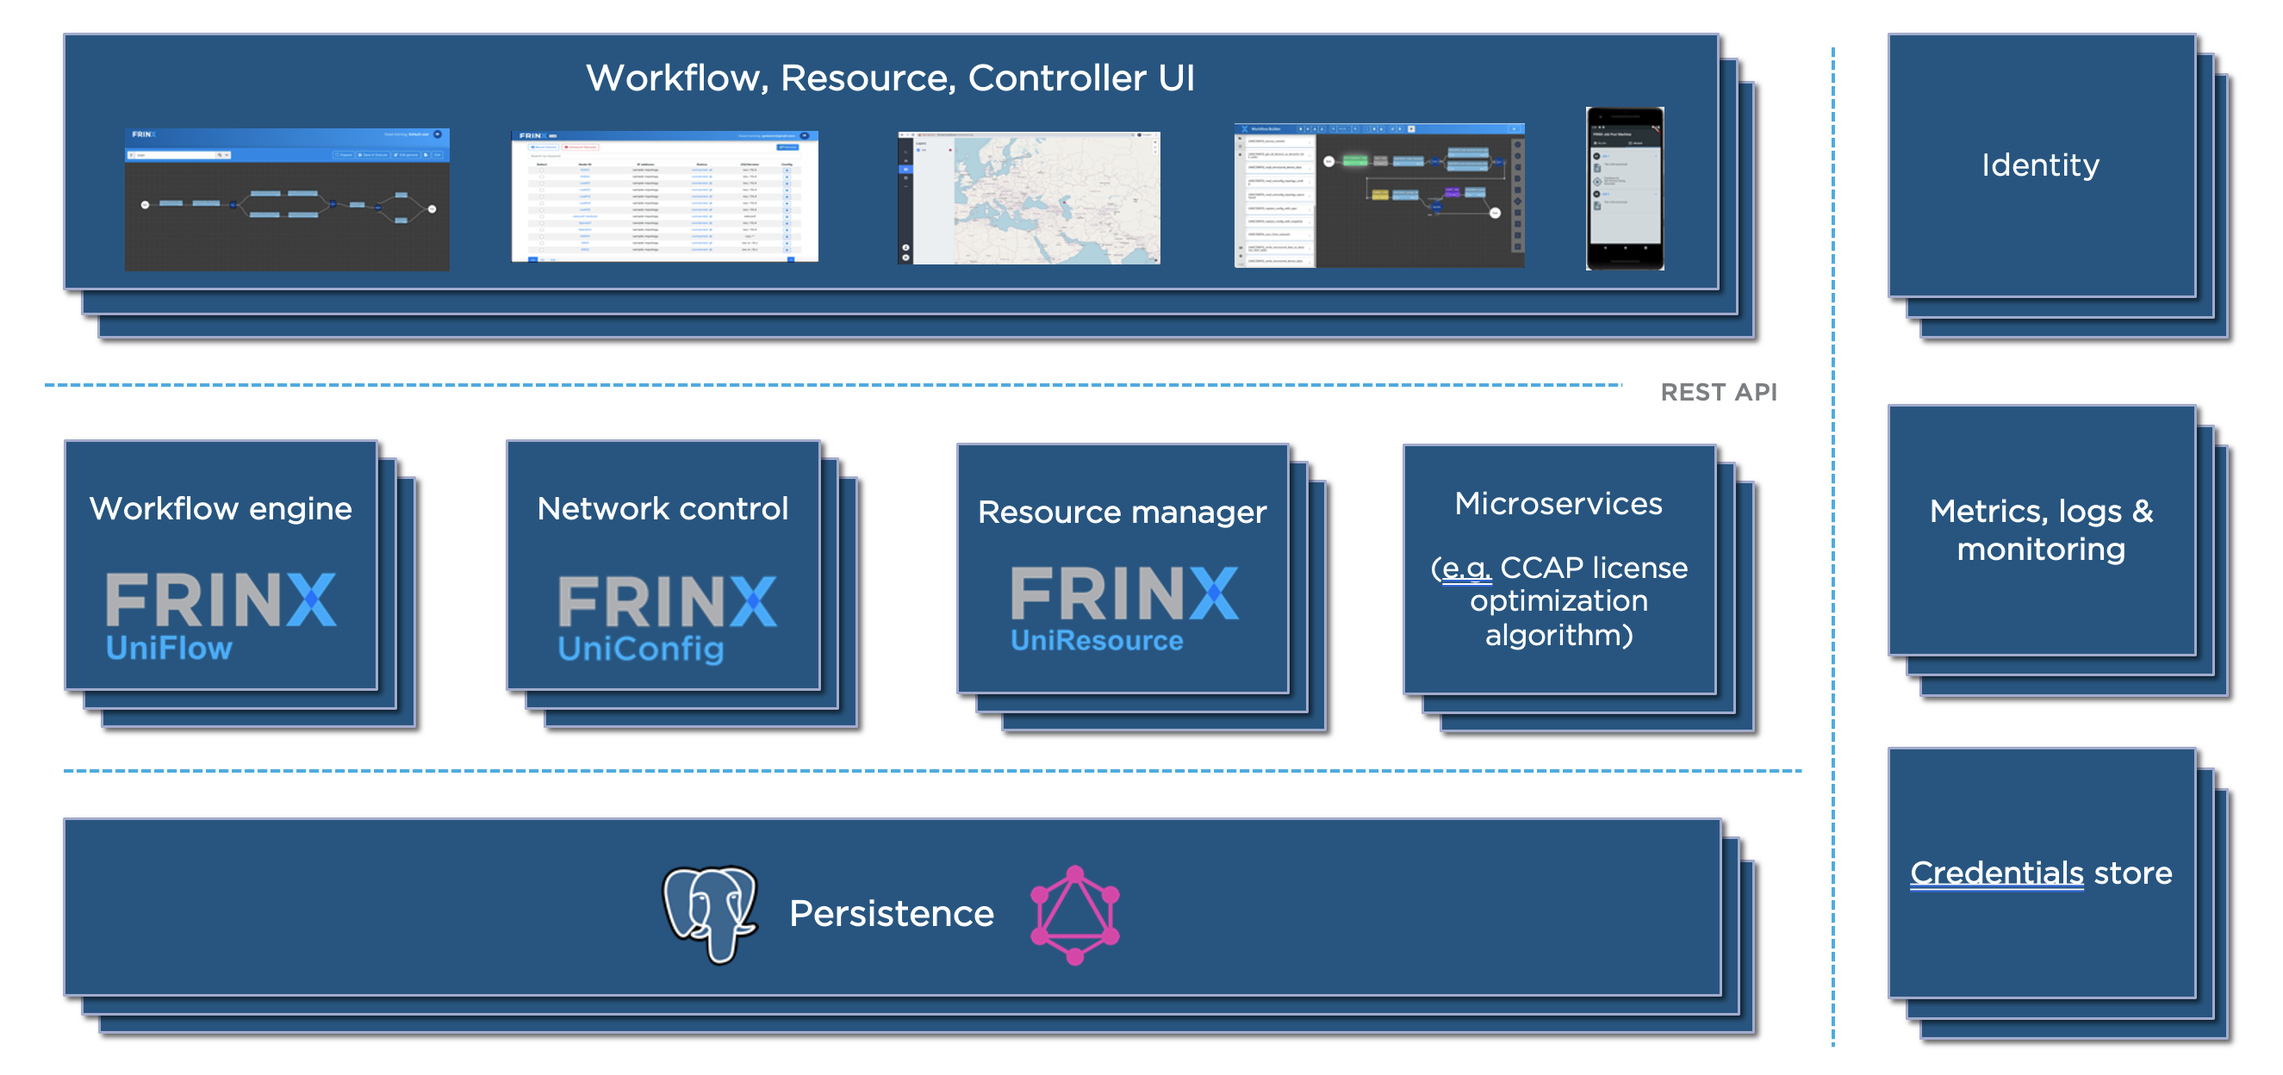
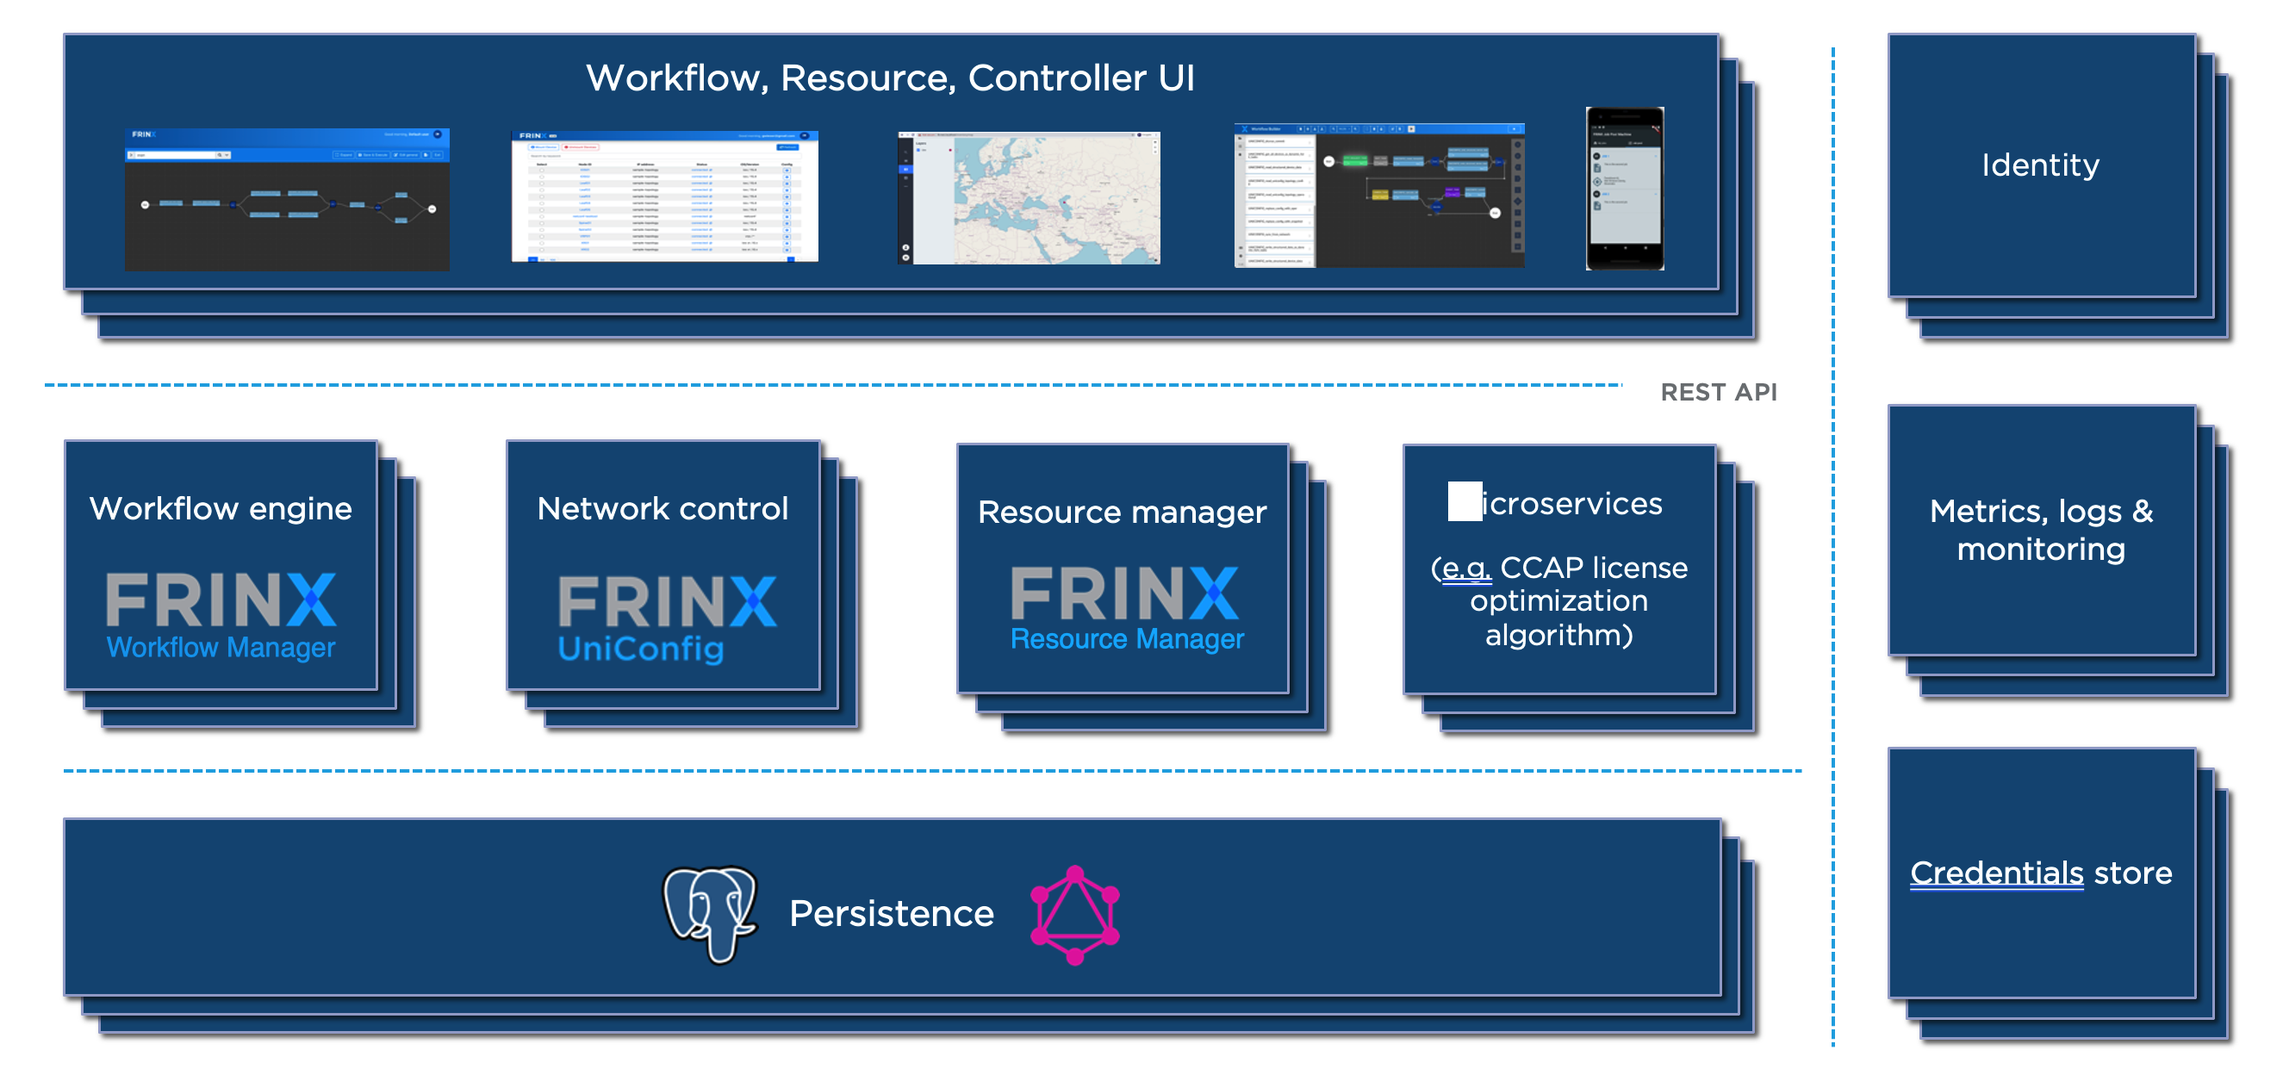
Naming changes
Introducing Workflow Manager and Resource Manager

diff --git a/frinx-uniresource/introduction/readme.md b/frinx-uniresource/introduction/readme.md
@@ -2,22 +2,22 @@
 order: 5
 ---
 
-# FRINX UniResource introduction
+# FRINX Resource Manager introduction
 
-FRINX UniResource was developed for network operators and infrastructure
+FRINX Resource Manager was developed for network operators and infrastructure
 engineers to manage their physical and logical assets and resources.
 Examples for assets are locations, equipment, ports and services.
 Examples for resources are IP addresses, VLAN IDs and other consumables
-required for operating data services. UniResource was developed
+required for operating data services. Resource Manager was developed
 specifically to address the needs of network and infrastructure
-engineers working with communication networks. FRINX UniResource
+engineers working with communication networks. FRINX Resource Manager
 provides GUI and a GraphQL based API to create, read, update and delete
-assets. UniResource can be deployed standalone or as part of FRINX
+assets. Resource Manager can be deployed standalone or as part of FRINX
 Machine.
 
 ## Features
 
-Following list contains features inherent to UniResouce.
+Following list contains features inherent to Resource Manager.
 
 ### Resource type management
 
@@ -46,7 +46,7 @@ Example resource types:
         - Name: Longitude
         - Type: float
 
-UniResouce is flexible enough to enable user defined resource types
+Resource Manager is flexible enough to enable user defined resource types
 without requiring code compilation or any other non-runtime task. With
 regard to resource types, this requires keeping the schema flexible
 enough so that users can define their own types and properties and thus
@@ -75,12 +75,12 @@ Example resources based on resource types from previous section:
         - Name: Longitude
         - Value: 0.0
 
-![Resource types](UniResource_resource_types.png)
+![Resource types](Resource_Manager_resource_types.png)
 
 ### Flexible design
 
-One of the main non-functional goals of the UniResouce is flexibility.
-We are designing UniResouce to support an array of use cases without the
+One of the main non-functional goals of the Resource Manager is flexibility.
+We are designing Resource Manager to support an array of use cases without the
 need for modifications. To achieve flexibility we are allowing:
 
 - Custom resource type definition without changes in the DB schema
@@ -90,15 +90,15 @@ need for modifications. To achieve flexibility we are allowing:
 
 ### Multitenancy and RBAC
 
-Multitenancy and Role Based Access Control is supported by UniResource.
+Multitenancy and Role Based Access Control is supported by Resource Manager.
 
 A simple RBAC model is implemented where only super-users (based on
 their role and user groups) can manipulate resource types, resource
 pools and labels. Regular users will only be able to read the above
 entities, allocate and free resources.
 
-UniResource does not manage list tenants/users/roles/groups and relies
-on external ID provider. Following headers are expected by UniResource
+Resource Manager does not manage list tenants/users/roles/groups and relies
+on external ID provider. Following headers are expected by Resource Manager
 graphQL server:
 
 ```
@@ -108,6 +108,6 @@ graphQL server:
     x-auth-user-groups: list of groups associated with current user.
 ```
 
-UniResource does not store any information about users or tenants in the
+Resource Manager does not store any information about users or tenants in the
 database, **except the name or ID of a tenant provided in `x-tenant-id`
 header**.

diff --git a/frinx-uniresource/developer-guide/readme.md b/frinx-uniresource/developer-guide/readme.md
@@ -7,11 +7,11 @@ order: 1
 ## Dependency on symphony
 
 !!!warning
-UniResource currently depends on a project called symphony.
+Resource Manager currently depends on a project called symphony.
 !!!
 
 This project is not publicly accessible and without access to it,
-UniResource cannot be built. In that case, use pre built docker images
+Resource Manager cannot be built. In that case, use pre built docker images
 from dockerhub.
 
 ## Folder structure
@@ -35,21 +35,21 @@ from dockerhub.
 - [api-tests](https://github.com/FRINXio/resource-manager/tree/master/api-tests)
     - integration tests
 - [pkg](https://github.com/FRINXio/resource-manager/tree/master/pkg) -
-    helm chart for UniResource
+    helm chart for Resource Manager
 
 ## Build
 
-It is advised to build UniResource as a docker image using
+It is advised to build Resource Manager as a docker image using
 [Dockerfile](https://github.com/FRINXio/resource-manager/blob/master/Dockerfile)
 and run it as a docker container.
 
-The reason is that UniResource uses wasmer and pre built js and python
+The reason is that Resource Manager uses wasmer and pre built js and python
 engines for wasm. These are not part of the codebase and thus simply
-running UniResource would fail, unless you provide these resources e.g.
-by copying them out of UniResource built docker image.
+running Resource Manager would fail, unless you provide these resources e.g.
+by copying them out of Resource Manager built docker image.
 
 !!!warning
-UniResource utilizes wire to generate wiring code between major
+Resource Manager utilizes wire to generate wiring code between major
 !!!
 
 components. Regenerating wiring is not part of standard build process !
@@ -61,13 +61,13 @@ After modifying any of the **wire.go** files perform:
 
 ## GraphQL schema
 
-UniResource exposes graphQL API and this is the
+Resource Manager exposes graphQL API and this is the
 [schema](https://github.com/FRINXio/resource-manager/blob/master/graph/graphql/schema/schema.graphql).
 
 ## Built in strategies
 
-UniResource provides a number of built in strategies for built in
-resource types and are loaded into UniResource at startup.
+Resource Manager provides a number of built in strategies for built in
+resource types and are loaded into Resource Manager at startup.
 
 [Built in strategies code
 base](https://github.com/FRINXio/resource-manager/tree/master/pools/allocating_strategies/strategies)
@@ -75,7 +75,7 @@ base](https://github.com/FRINXio/resource-manager/tree/master/pools/allocating_s
 [Built in strategies unit
 tests](https://github.com/FRINXio/resource-manager/tree/master/pools/allocating_strategies/strategies/src/tests)
 
-These strategies need to be tested/built and packaged for UniResource.
+These strategies need to be tested/built and packaged for Resource Manager.
 This test/build process in scrips section of
 [package.json](https://github.com/FRINXio/resource-manager/blob/master/pools/allocating_strategies/strategies/package.json)
 while the packaging part can be found in
@@ -98,7 +98,7 @@ There's a number of [api
 tests](https://github.com/FRINXio/resource-manager/tree/master/api-tests)
 available and can be executed using
 [integration-test.sh](https://github.com/FRINXio/resource-manager/blob/master/integration-test.sh).
-These tests need to be executed against UniResource running as a black
+These tests need to be executed against Resource Manager running as a black
 box (ideally as a container).
 
 ### Wasmer

diff --git a/frinx-uniresource/architecture/readme.md b/frinx-uniresource/architecture/readme.md
@@ -2,27 +2,27 @@
 order: 2
 ---
 
-# UniResource Architecture
+# Resource Manager architecture
 
-Following diagram outlines the high level architecture of UniResource.
+Following diagram outlines the high level architecture of Resource Manager.
 
 ![Architecture](rm_arch.png)
 
 User authentication and authorization as well as user and tenant
-management is outside of UniResource. UniResource is typically deployed
+management is outside of Resource Manager. Resource Manager is typically deployed
 behind an api-gateway that handles authentication and authorization
 relying on an external Identity Managmenet system.
 
 The only aspect of tenancy management that needs to be handled by
-UniResource is: per tenant database creation and removal. Each tenant
+Resource Manager is: per tenant database creation and removal. Each tenant
 has its own database in database server.
 
 ## Technology stack
 
 This section provides details on intended technologies to develop
-UniResource with.
+Resource Manager with.
 
-UniResource will rely on technologies used by the Inventory project
+Resource Manager will rely on technologies used by the Inventory project
 currently residing at: <https://github.com/facebookincubator/magma>
 since both projects are similar and have similar requirements.
 
@@ -38,7 +38,7 @@ since both projects are similar and have similar requirements.
             used in the future
 - Backend server
     - GraphQL
-        - Primary API of UniResource will be exposed over GraphQL
+        - Primary API of Resource Manager will be exposed over GraphQL
             (over HTTP)
         - [Gqlgen](https://gqlgen.com/getting-started/)
             - Gqlgen is a graphql framework for go
@@ -49,11 +49,11 @@ since both projects are similar and have similar requirements.
         - Separate process
         - Isolated and limited for safety and performance
 - AAA
-    - Tenant and user management is out of scope of UniResource and
+    - Tenant and user management is out of scope of Resource Manager and
         will be handled by an external identity management system.
 
 ## Entity model
 
-Following diagram outlines the core entity model for UniResource:
+Following diagram outlines the core entity model for Resource Manager:
 
 ![Entities](rm_entity.png)

diff --git a/frinx-uniresource/pools/readme.md b/frinx-uniresource/pools/readme.md
@@ -22,7 +22,7 @@ Example pools:
 
 Depending on resource type and user’s requirements, pools need to be
 capable of allocating resources based on various criteria / algorithms.
-Currently, following pool types are supported by UniResource:
+Currently, following pool types are supported by Resource Manager:
 
 ## SetPool
 
@@ -50,7 +50,7 @@ SingletonPool serves just a single resource for every request.
 This type of pool can be utilized in special uses cases such as serving
 a globally unique single AS number of an ISP. Instead of hardcoding the
 AS number as a constant in e.g. workflows, it can be “managed” and
-stored in the UniResource.
+stored in the Resource Manager.
 
 Properties of SingletonPool
 
@@ -67,7 +67,7 @@ This type of pool allows users to define a custom allocation logic,
 attach it to the pool and have use-case specific resource allocations
 available. Important feature of this pool type is the ability to accept
 new allocation logic from users in the form of a script without having
-to rebuild the UniResource in any way.
+to rebuild the Resource Manager in any way.
 
 This type of pool can be used when
 
@@ -102,7 +102,7 @@ Example AllocationPools:
 
 ## Nested pool
 
-UniResource allows to create nested pools. Nested pools provide possibility to create subgroups from already existing pools. With these subgroups it is easier to reason about topology.
+Resource Manager allows to create nested pools. Nested pools provide possibility to create subgroups from already existing pools. With these subgroups it is easier to reason about topology.
 
 ### How to create nested pool
 
@@ -142,7 +142,7 @@ Allocation strategy also gets access to a
 
 ### Pool hierarchies
 
-UniResource allows pools to be organized into hierarchies e.g.
+Resource Manager allows pools to be organized into hierarchies e.g.
 
 ![Pool hierarchies](rm_hierarchy.png)
 

diff --git a/frinx-machine/azure-ad/readme.md b/frinx-machine/azure-ad/readme.md
@@ -21,7 +21,7 @@ Set platform redirect URIs on the Authentication page. The table below shows exa
 | Syntax                | Platform configuration  | Redirect URI                                    |
 | ---                   | ---                     | ---                                             |
 | Frontend Login        | Single-page application | https://<**IP/DNS**>/ ,e.g. https://localhost/  |
-| Uniflow docs (swager) | Web                     | https://<**IP/DNS**>/oauth2-redirect.html       |
+| Workflow Manager docs (swager) | Web                     | https://<**IP/DNS**>/oauth2-redirect.html       |
 | Cloud swagger         | Web                     | https://editor.swagger.io/oauth2-redirect.html  |
 | Local Postman         | Web                     | https://oauth.pstmn.io/v1/callback              |
 | Cloud Postman         | Web                     | https://getpostman.com/oauth2/callback          |
@@ -76,7 +76,7 @@ Example of encoded JWT token with claims. These claims are transferred to the re
 
 Super user is defined in .env file via **ADMIN_GROUP** variable.
 
-### Uniflow
+### Workflow Manager
 
 RBAC proxy adds 2 features on top of tenant proxy:
 * Ensures user authorization to access certain endpoints
@@ -117,7 +117,7 @@ Regular users will only be able to use GET REST API requests.
 |Admin (Superuser)   | true                 | true                 |
 |Regular user        | true                 | false                |
 
-### Uniresource
+### Resource Manager
 
 A simple RBAC model is implemented where only super-users (based on their role and user groups) can manipulate resource types, resource pools and labels. Regular users will only be able to read the above entities, allocate and free resources.
 

diff --git a/frinx-uniflow/introduction/readme.md b/frinx-uniflow/introduction/readme.md
@@ -2,12 +2,12 @@
 order: 5000
 ---
 
-FRINX UniFlow introduction
+FRINX Workflow Manager introduction
 ==========================
 
-FRINX UniFlow enables customers to create automated, repeatable, digital
+FRINX Workflow Manager allows customers to create automated, repeatable, digital
 processes to build, grow and operate their digital communication
-infrastructure. FRINX UniFlow is based on open-source components and
+infrastructure. FRINX Workflow Manager is based on open-source components and
 enables infrastructure and network engineers to create and operate
 workflows to implement configuration changes and obtain operational data
 from their heterogeneous networks and clouds. Typical examples are the
@@ -15,11 +15,11 @@ automation of services that span resources in the cloud and physical
 assets, the automation of slices and capacity increases in mobile
 networks, the interaction with CRM and inventory systems, the management
 of Internet and Infrastructure services and the automation of core
-network functions. UniFlow can be deployed standalone or as part of
+network functions. Workflow Manager can be deployed standalone or as part of
 FRINX Machine.
 
-FRINX UniFlow uses Netflix's Conductor for task/workflow orchestration.
+FRINX Workflow Manager uses Netflix's Conductor for task/workflow orchestration.
 We recommend to take a look at their
 [Documentation](https://netflix.github.io/conductor/configuration/taskdef/)
 as an introduction to Tasks, Workflows, Definitions and an overall
-prerequisite to working with FRINX UniFlow.
+prerequisite to working with FRINX Workflow Manager.

diff --git a/frinx-machine/use-cases/create-l2-vpn-p2p/readme.md b/frinx-machine/use-cases/create-l2-vpn-p2p/readme.md
@@ -1,13 +1,13 @@
 # Creating a Layer 2 VPN Point-to-Point Connection
 
 This section details how to find and execute a prebuilt workflow that
-creates a Layer 2 VPN Point-to-Point connection within UniFlow.
+creates a Layer 2 VPN Point-to-Point connection within Workflow Manager.
 
-## Navigating through UniFlow
+## Navigating through Workflow Manager
 
 From the FRINX Machine dashboard you can either select
-`UniFlow` --> `Explore Workflows` --> `Explore`, or select the menu tab in
-the upper left-hand corner and select `UniFlow`.
+`Workflow Manager` --> `Explore Workflows` --> `Explore`, or select the menu tab in
+the upper left-hand corner and select `Workflow Manager`.
 
 You can then search for **Create_L2VPN_P2P_OC_uniconfig** or scroll
 down to find it within the inventory of prebuilt workflows.

diff --git a/README.md b/README.md
@@ -21,15 +21,15 @@ and monitoring of complex workflows using FRINX UniConfig.
 FRINX UniConfig is a suite of applications aimed at network
 configuration management.
 
-## FRINX UniFlow
+## FRINX Workflow Manager
 
 
-FRINX UniFlow enables customers to create automated, repeatable, digital
+FRINX Workflow Manager allows customers to create automated and repeatable digital
 processes to build, grow and operate their digital communication
 infrastructure.
 
-## FRINX UniResource
+## FRINX Resource Manager
 
 
-FRINX UniResource was developed for network operators and infrastructure
-engineers to manage their physical and logical assets and resources.
+FRINX Resource Manager helps network operators and infrastructure engineers
+manage their physical and logical assets and resources.

diff --git a/frinx-machine/use-cases/create-loopbacks/readme.md b/frinx-machine/use-cases/create-loopbacks/readme.md
@@ -17,7 +17,7 @@ By default, this workflow doesn't work on Junos, **IOSXR653**, **IOSXR663** and 
 In the next step, we execute a workflow that creates loopback on
 every installed device in UniConfig.
 
-In the `UniFlow` section, click on the `Explore` button. A list of all workflows will appear. Search for a workflow called **Create_loopback_all_in_uniconfig**.
+In the `Workflow Manager` section, click on the `Explore` button. A list of all workflows will appear. Search for a workflow called **Create_loopback_all_in_uniconfig**.
 
 As for the input, the only thing you need to input is "loopback_id", the name of the loopback interface e.g., **77**.
 After executing, click on the numeric link that appears to see workflow progression and results.

diff --git a/frinx-machine/use-cases/install-all-devices-from-inventory/readme.md b/frinx-machine/use-cases/install-all-devices-from-inventory/readme.md
@@ -3,7 +3,7 @@
 Once you add multiple devices to your inventory, it can get tedious to install all of them individually. To make things easier, we built a workflow that will install all
 devices present in the inventory. To use this workflow, follow these instructions:
 
-On landing page go to `UniFlow` section, click `Explore` button and search for the workflow called **Install_all_from_inventory**.
+On landing page go to `Workflow Manager` section, click `Explore` button and search for the workflow called **Install_all_from_inventory**.
 
 ![Search for install_all_from_inventory](install_all_from_inventory_search.png)
 

diff --git a/frinx-uniflow/create-and-modify-workflows/readme.md b/frinx-uniflow/create-and-modify-workflows/readme.md
@@ -199,11 +199,11 @@ Now just start fm-workflows and you're good to go:
 ```
 
 If you did everything correctly, you will now see your new task in Frinx
-Machine. Go to **UniFlow -> Tasks -> Search**:
+Machine. Go to **Workflow Manager -> Tasks -> Search**:
 
 ![Search integers](fm_search_integers_task.png)
 
-Now you can create workflow that uses this task. **UniFlow** -> **"+ New"**:
+Now you can create workflow that uses this task. **Workflow Manager** -> **"+ New"**:
 
 [!embed](https://www.youtube.com/embed/dB_yR1GhBGU)
 

diff --git a/frinx-uniresource/user-guide/readme.md b/frinx-uniresource/user-guide/readme.md
@@ -13,5 +13,5 @@ collection](https://www.getpostman.com/collections/514d68c6e43f1628d715).
 
 ## UI
 
-See UniResource frontend project on
-[github](https://github.com/FRINXio/frinx-frontend/tree/main/packages/frinx-uniresource-ui)
+See the Resource Manager frontend project on
+[GitHub](https://github.com/FRINXio/frinx-frontend/tree/main/packages/frinx-uniresource-ui)
